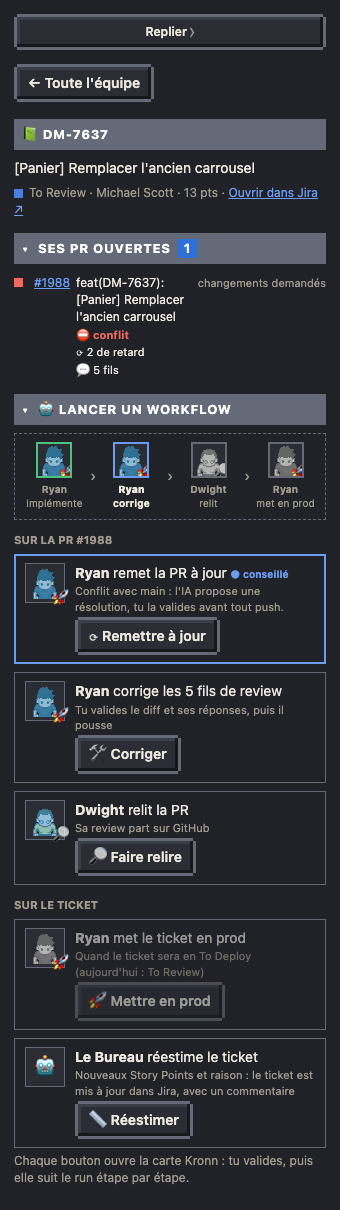
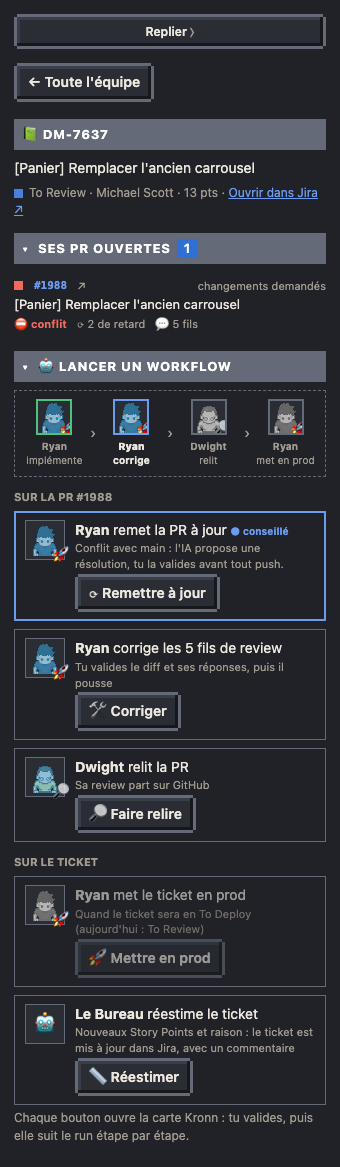
fix(page): fiche d'un ticket, les PR ouvertes sur deux lignes (#92)
## 🎯 Quoi et pourquoi
Dans la fiche d'un ticket, « Ses PR ouvertes » mettait chaque PR sur une
seule ligne à trois colonnes : numéro, titre, état de review. Le numéro
(long pour un autre dépôt, `front_euronews_apollo#2071`) et l'état («
changements demandés ») ne se coupent pas : le titre était écrasé dans
une colonne étroite, parfois coupé lettre par lettre, avec les pastilles
empilées dessous. Vu sur un vrai ticket avec une PR à 5 fils de review.

## 🔧 Changements
- Chaque PR prend la présentation de « Ses tickets » (`tkr`) : numéro, ↗
GitHub et état de review à droite en tête ; le titre entier dessous,
sans « feat: » ni la clé du ticket (déjà en titre de la fiche) ; puis
conflit, retard et fils de review.
- Nouvelle classe `.tk-rev` (état de review à droite).

## 🧪 Tests
- [x] `sh tools/test.sh --chrome` vert (aucun `console.error`)
- [x] Un test ajouté ou adapté pour ce changement
(`tests/ticket.test.js` : deux lignes, titre nettoyé, pastilles dessous)

## 📸 Captures
`guide/img/fiche-ticket.png` refaite. Avant : titre en colonne de
quelques caractères ; après : titre sur toute la largeur.

## ✅ Avant de merger
- [x] Guide (`guide/fonctionnalites/`), ligne du README et captures
(`tools/shots.py`) dans la même PR si c'est visible
- [x] Affichage changé exprès : label « références visuelles » posé (la
CI refait `tests/visual/`)
- [x] `docs/` à jour si une règle ou la structure change (rien à
changer)
- [x] Une ligne dans `CHANGELOG.md`, section « Unreleased » (Ajouté,
[…]

diff --git a/tests/ticket.test.js b/tests/ticket.test.js
@@ -210,3 +210,23 @@ test('#86 « Mise en prod » d\'une PR : seulement si un de ses tickets est To D
   assert.deepEqual(mep('review', ['DM-9']), [['bureau-meppr', 'Quand le ticket sera en To Deploy (aujourd\'hui : To Review)']]);
   assert.match(mep('review', [])[0][1], /^Pas de ticket Jira : pas de mise en prod sans ticket en To Deploy$/);
 });
+
+test('fiche du ticket, « Ses PR ouvertes » : sur deux lignes (n° et état, puis le titre entier sans « feat: » ni la clé), pastilles dessous', () => {
+  const rows = J(`(() => {
+    const got = {}, lb = launchBlock, fs = foldSection, ce = document.createElement;
+    document.createElement = () => ({children: [], style: {}, appendChild(e) { this.children.push(e); }});
+    launchBlock = () => {};
+    foldSection = (side, id) => { const s = {childElementCount: 0, kids: [], appendChild(e) { this.kids.push(e); this.childElementCount++; }}; got[id] = s; return s; };
+    TEAM = {people: [{name: 'Pam', tickets: [{key: 'DM-7', cat: 'review', status: 'To Review', summary: 'z'}],
+      prs: [{n: 21, title: 'feat: DM-7 Europe and European Union themes in the apps', review: 'changes', keys: ['DM-7'], threads: 5, behind: 3, conflict: true}]}],
+      unassigned: [], other_prs: []};
+    ACTS = null;
+    try { renderTicket({appendChild() {}}, 'DM-7'); } finally { launchBlock = lb; foldSection = fs; document.createElement = ce; }
+    return got['tk-prs'].kids[0].children.map(li => ({cls: li.className, html: li.innerHTML}));
+  })()`);
+  assert.equal(rows.length, 1);
+  assert.equal(rows[0].cls, 'tkr');
+  assert.match(rows[0].html, /<div class="tk-top">.*#21<\/a>.*<span class="tk-rev">changements demandés<\/span><\/div>/);
+  assert.match(rows[0].html, /<div class="tk-t">Europe and European Union themes in the apps<\/div>/);
+  assert.match(rows[0].html, /<div class="tk-meta">.*⛔ conflit.*3 de retard.*💬 5 fils.*<\/div>$/);
+});

diff --git a/page/src/62-ticket.js b/page/src/62-ticket.js
@@ -166,8 +166,13 @@ function renderTicket(side,key){
     const ul=document.createElement('ul');ul.className='steps';ul.style.marginLeft='0';
     for(const p of prs){
       const r=p.draft?['brouillon','var(--idle)']:TK_REV[p.review]||TK_REV.pending;
-      const li=document.createElement('li');
-      li.innerHTML=`<span class="dot" style="background:${r[1]}"></span><a href="#" data-pr="${esc(prId(p))}" title="Fiche de la PR" style="color:var(--accent);white-space:nowrap">${esc(prNum(p))}</a><span>${esc(p.title)}${prMarks(p).map(m=>' '+m).join('')}</span><span class="k">${r[0]}</span>`;
+      // sur deux lignes comme « Ses tickets » : n°, lien GitHub et état en tête, puis le titre sur toute la largeur (sans
+      // « feat: » ni la clé du ticket, déjà en titre de la fiche), puis conflit, retard et fils de review
+      const t=String(p.title||'').replace(/^\s*\w+(\([^)]*\))?!?:\s*/,'').replace(new RegExp('^'+key.replace(/\W/g,'\\$&')+'\\b[\\s:-]*'),'')||p.title||'', m=prMarks(p);
+      const li=document.createElement('li');li.className='tkr';
+      li.innerHTML=`<div class="tk-top"><span class="dot" style="background:${r[1]}"></span><a class="tk-key" href="#" data-pr="${esc(prId(p))}" title="Fiche de la PR">${esc(prNum(p))}</a>`+
+        `<a class="tk-gh" ${hrefOf(p.url)} target="_blank" rel="noopener" title="Ouvrir sur GitHub">↗</a><span class="tk-rev">${r[0]}</span></div>`+
+        `<div class="tk-t">${esc(t)}</div>${m.length?`<div class="tk-meta">${m.join('')}</div>`:''}`;
       ul.appendChild(li);
     }
     pb.appendChild(ul);

diff --git a/page/src/styles.css b/page/src/styles.css
@@ -137,6 +137,7 @@ summary .du{color:var(--muted);font-size:12px;white-space:nowrap}
 .tkr .tk-meta a{color:var(--accent);font-weight:600}
 .tkr .tk-meta .warn{color:var(--warn);font-weight:600}
 .tkr .tk-meta .dot{width:7px;height:7px;margin-right:4px}
+.tkr .tk-rev{margin-left:auto;padding-left:6px;font-size:11px;color:var(--muted);white-space:nowrap} /* état de review d'une PR, à droite (fiche d'un ticket) */
 .tk-tag{color:var(--err);border:1px solid currentColor;border-radius:4px;padding:0 4px;font-size:10px;font-weight:700;line-height:14px;text-transform:uppercase;letter-spacing:.04em}
 .tk-bar{display:flex;gap:2px;height:8px;border-radius:4px;overflow:hidden;background:var(--chip)}
 .tk-bar i{display:block;min-width:3px}

diff --git a/guide/fonctionnalites/07-fiches.md b/guide/fonctionnalites/07-fiches.md
@@ -39,7 +39,7 @@ Sous « Personnaliser », sa ligne d'état tient sur une ligne (« Teste 7 ticke
 
 Les PR qui citent un de ses tickets sont sur la ligne du ticket : le bloc suivant, « Ses autres PR ouvertes », ne garde que les autres (sans ticket, ou d'un ticket hors de ses tickets du sprint). Le compteur « PR ouvertes » en haut de la fiche les compte toutes. Même présentation que « Ses tickets » : un groupe par état de review, bordé de sa couleur (changements demandés, en attente de review, approuvées, puis brouillons, repliés par défaut), la plus récemment active d'abord. Chaque PR : son numéro (lien GitHub), le ticket qu'elle cite (lien Jira, en gris) et le composant, son titre sans le préfixe « feat(DM-1): », puis sa dernière activité (« il y a 6 mois » : une PR oubliée se voit), en orange avec ⏳ quand elle attend une review depuis plus de 24 h.
 
-**Ticket** : clic sur un ticket (Kanban, fiche d'un collègue) : son statut et depuis quand, qui l'a, ses points, ses PR ouvertes avec leur review, le lien Jira, et les workflows à lancer dessus selon son statut.
+**Ticket** : clic sur un ticket (Kanban, fiche d'un collègue) : son statut et depuis quand, qui l'a, ses points, ses PR ouvertes avec leur review (comme « Ses tickets » : numéro, lien GitHub et état de review en tête, le titre entier dessous sans « feat: » ni la clé du ticket, puis conflit, retard et fils de review), le lien Jira, et les workflows à lancer dessus selon son statut.
 
 Dans « 🤖 Lancer un workflow », chaque action montre **l'agent qui la fait** : son portrait pixel, l'icône de son métier, et une phrase (« **Nate** corrige les 5 fils de review »). L'agent est celui dont les workflows (`agents[].wf`, ou un personnage du pack) contiennent le workflow du bouton : son nom n'est jamais écrit en dur. « Remettre à jour » sans agent à lui est fait par l'agent de « Corriger » ; « Commenter », c'est toi (ton compte Jira) ; une action sans agent montre l'hologramme du Bureau. Un clic sur le portrait ouvre la fiche de l'agent. Les actions sont rangées par PR (« Sur la PR #1988 ») puis « Sur le ticket ». En tête, un bandeau montre **où en est le ticket** : implémente › corrige › relit › met en prod, avec l'agent de chaque étape (fait en vert, en cours en couleur, à venir en gris ; seulement les étapes que tu as branchées). L'action logique est encadrée, **● conseillé** : conflit ou retard sur la base → Remettre à jour, fils de review ouverts → Corriger, sinon Faire relire ; en To Deploy → Mettre en prod ; à faire sans PR → Implémenter. Une action pas encore possible est **grisée avec sa raison** (« quand le ticket sera en To Deploy (aujourd'hui : To Review) »). Quand l'agent est déjà dessus (un run en cours sur ce ticket ou cette PR), son bouton est grisé : « Nate est dessus depuis 10h12 ». Le coût moyen d'un run de l'agent (fiche de paie, 7 jours) s'affiche à côté quand il est connu.
 

diff --git a/CHANGELOG.md b/CHANGELOG.md
@@ -23,6 +23,7 @@ Format : [Keep a Changelog](https://keepachangelog.com/fr/1.1.0/). Versions : `0
 
 ### Corrigé
 
+- Fiche d'un ticket, « Ses PR ouvertes » : le titre d'une PR n'est plus écrasé dans une colonne étroite entre son numéro et son état ; chaque PR tient sur deux lignes, comme « Ses tickets » (numéro, ↗ GitHub et état, puis le titre entier, puis conflit, retard et fils de review).
 - « 🚀 Mise en prod » d'une PR proposée seulement quand un de ses tickets est en To Deploy (avant : dès que la PR était prête, ticket en review compris) ; « Faire relire » ne nomme plus un agent écrit en dur (#86).
 - Fiche Courrier : un mail plus ancien qu'hier montre sa date (« jeudi 24 sept. 10:13 ») et plus seulement le jour de la semaine.
 - Mise en prod d'une PR en simulation : le ticket n'est plus passé au statut de fin ni commenté par le retour IA (nouvelle étape `dry_guard` après la gate de fin) ; avant, approuver la gate de fin d'une simulation écrivait dans Jira.
